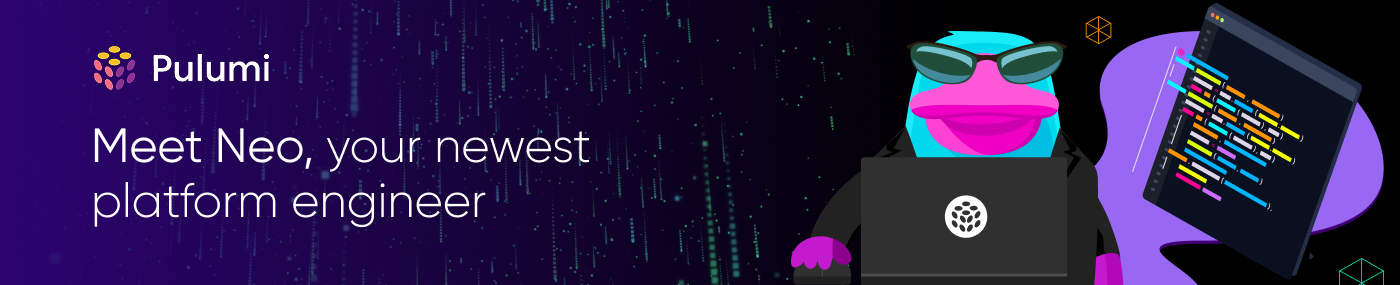
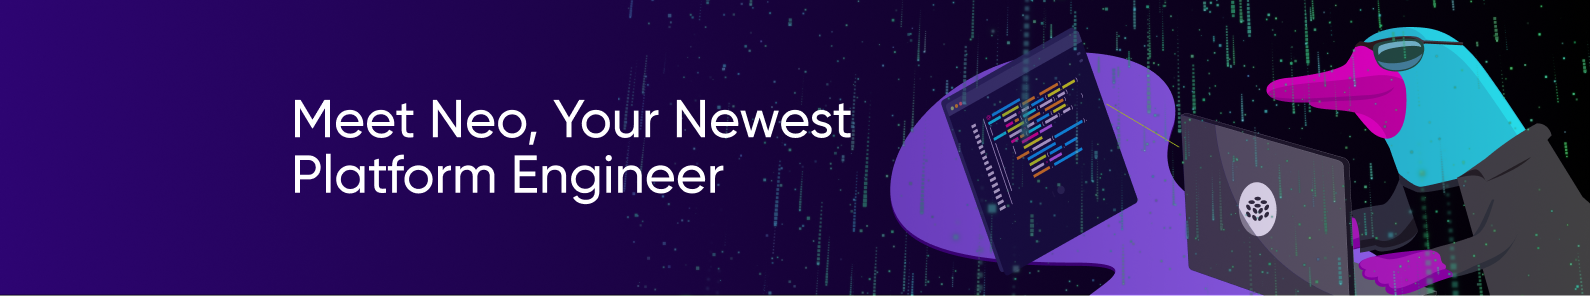
Landing page updates

diff --git a/content/product/neo.md b/content/product/neo.md
@@ -3,19 +3,17 @@ title: "Pulumi Neo"
 layout: neo
 
 meta_title: "Pulumi Neo"
-meta_desc: "Meet Neo: AI-powered platform engineering that transforms bottlenecks into strategic advantages with full transparency, control & reliability."
+meta_desc: "You're Invited: Meet Neo, Your Newest Platform Engineer"
 meta_image: /images/product/neo-meta.png
 
 overview:
   title: Pulumi Neo
-  subtitle: Accelerate Cloud Delivery with AI-Powered Platform Engineering
-  description: Platform engineering excellence shouldn't be limited by team capacity or hiring timelines. What if your expertise could be amplified by AI that understands your environment and respects your governance? Join the livestream on September 16th to discover how infrastructure intelligence transforms operational bottlenecks into strategic advantages. Experience platform engineering at AI speed—with full transparency, control, and enterprise-grade reliability.
   cta: Add the livestream to your calendar
   link: https://calendar.google.com/calendar/event?action=TEMPLATE&tmeid=MGd1b3RzdWlkOHMwZmcydGxkbjluMjI3aHYgY183YmU5ZmU1MDBkNGZhZTg1OTE4Yzc3ODQ5ZDA0YzA4ZGZlN2FiYWQ3Mzc0NjE4NzU4YmRkMTkwMjcxMjI1ZTFmQGc&tmsrc=c_7be9fe500d4fae85918c77849d04c08dfe7abad7374618758bdd190271225e1f%40group.calendar.google.com
 
 demo_video:
-    title: See Pulumi IDP in Action
-    subtitle: Watch how platform teams build secure, standardized infrastructure
-    videoID: AMvNG9IkWuI
+    title: Unveiling Neo – Your Newest Platform Engineer
+    subtitle: Breaking news from Pulumi – platform engineering is about to change.
+    videoID: 9GB9M2l1OgY
 
 ---

diff --git a/content/events/neo-launch/index.md b/content/events/neo-launch/index.md
@@ -1,7 +1,7 @@
 ---
 # Name of the event, <= 60 characters
 title: Meet Neo, Your Newest Platform Engineer
-meta_desc: "Meet Neo: AI-powered platform engineering that transforms bottlenecks into strategic advantages with full transparency, control & reliability."
+meta_desc: "You're Invited: Meet Neo, Your Newest Platform Engineer"
 meta_image: /images/product/neo-meta.png
 
 # A featured webinar will display first in the list.
